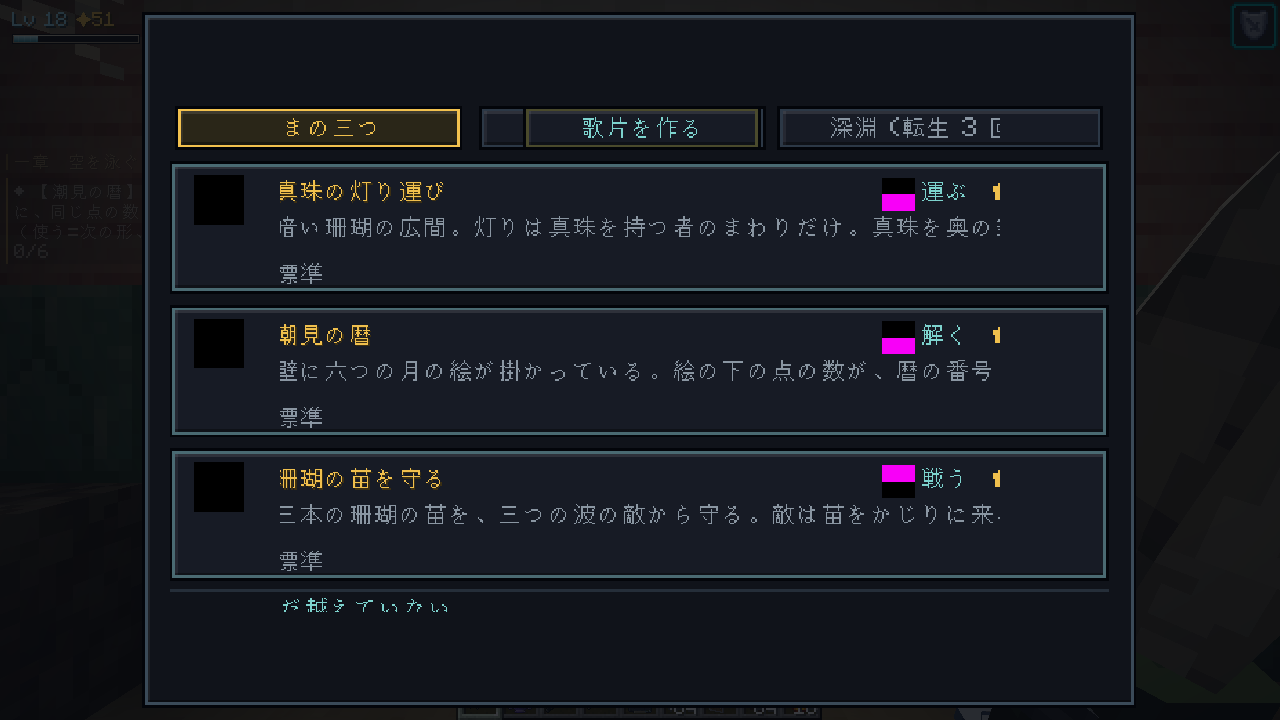
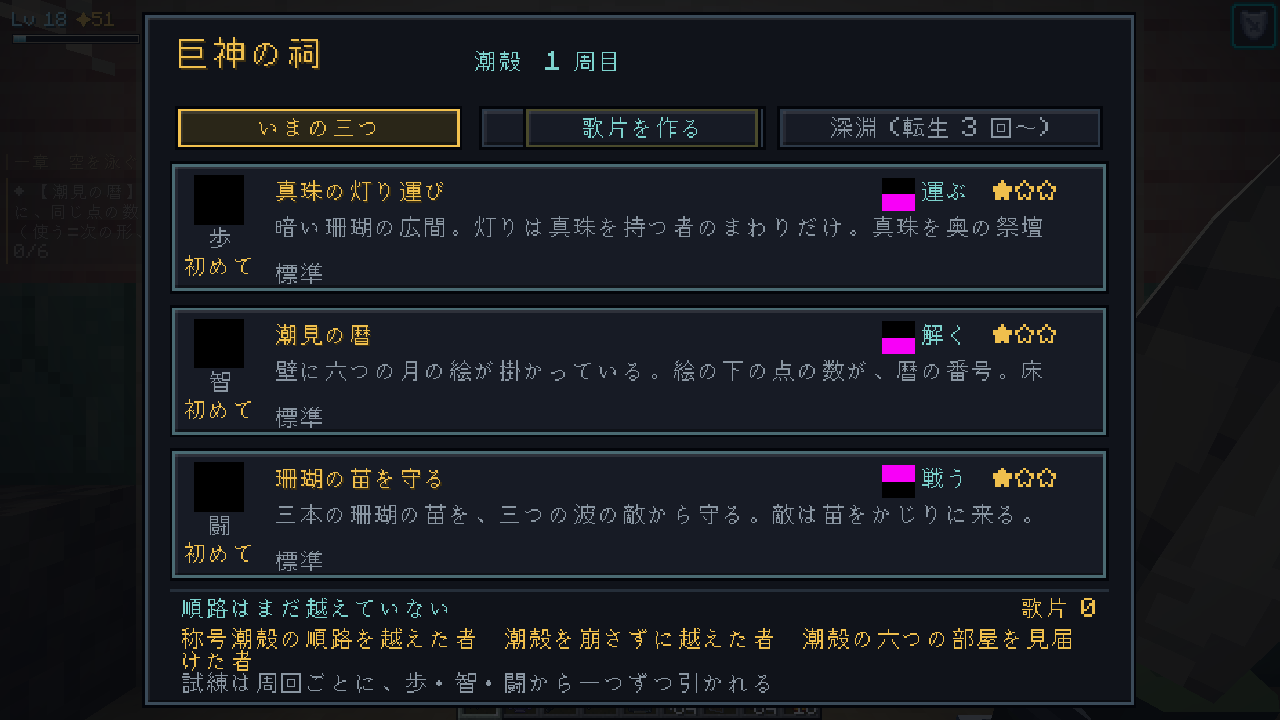
Trial board: lay out at GUI 2, 3 and 4 (text clip follows the fit, panel can shrink)
- textBounds() returned unscaled GUI coordinates, so at GUI 2 the text was clipped to the unscaled panel rect (about 140 px to the right). It now returns fit.screenRect(0, 0, W, H).
- UiFit.fit gains a floor; the trial board uses 0.5 so the 252 px panel fits the short GUI 3 and GUI 4 windows.
- Shots: docs/review/previews/raid_rewards_board_gui2/3/4.png.

diff --git a/src/main/java/jp/revati/skyabyss/client/trial/TrialBoardScreen.java b/src/main/java/jp/revati/skyabyss/client/trial/TrialBoardScreen.java
@@ -193,7 +193,7 @@ public class TrialBoardScreen extends Screen implements jp.revati.skyabyss.clien
         Font font = Minecraft.getInstance().font;
         g.fill(0, 0, width, height, argb(0.80f, BG));
         // 板は窓に合わせて一様に大きく描く (描くのと当たりは同じ変換)。論理の (0, 0) に置く
-        fit.fit(width, height, W, H, 2.5f);
+        fit.fit(width, height, W, H, 2.5f, 0.5f);
         int mouseX = (int) Math.floor(fit.x(screenX));
         int mouseY = (int) Math.floor(fit.y(screenY));
         fit.begin(g);
@@ -382,6 +382,8 @@ public class TrialBoardScreen extends Screen implements jp.revati.skyabyss.clien
 
     @Override
     public int[] textBounds() {
-        return new int[] {(width - W) / 2, (height - H) / 2, W, H};
+        // 文字の範囲は描くときと同じ変換を通した画面の矩形 (論理の座標のままだと、倍率が 1 でない GUI で字が切れる)
+        fit.fit(width, height, W, H, 2.5f, 0.5f);
+        return fit.screenRect(0, 0, W, H);
     }
 }

diff --git a/src/main/java/jp/revati/skyabyss/client/ui/UiFit.java b/src/main/java/jp/revati/skyabyss/client/ui/UiFit.java
@@ -13,8 +13,13 @@ public final class UiFit {
 
     // 論理の大きさを、画面の中央へ。縁に 6 画素ずつ余白を残す
     public void fit(int screenW, int screenH, int logicalW, int logicalH, float cap) {
+        fit(screenW, screenH, logicalW, logicalH, cap, 1f);
+    }
+
+    // floor は一番小さい倍率 (1 より小さくして、窓の低い GUI の大きさにも入れる。文字は小さくなる)
+    public void fit(int screenW, int screenH, int logicalW, int logicalH, float cap, float floor) {
         float s = Math.min((screenW - 12f) / Math.max(1, logicalW), (screenH - 12f) / Math.max(1, logicalH));
-        scale = Mth.clamp(s, 1f, cap);
+        scale = Mth.clamp(s, floor, cap);
         ox = Math.round((screenW - logicalW * scale) / 2f);
         oy = Math.round((screenH - logicalH * scale) / 2f);
     }

diff --git a/docs/review/raid_rewards_2026-10-24.md b/docs/review/raid_rewards_2026-10-24.md
@@ -63,20 +63,24 @@ docs/design/32 の 9.4 の数を、部屋と中ボスの間を越えたときに
 
 - `raid_rewards_notice_walk.png`: 歩の部屋を越えた直後。「部屋を越えた」「獲得 受け取ったもの: 【潮殻の殻片】 【共鳴の欠片（潮殻）】」「進捗 満ち引きの試練」。文は切れていない。
 - `raid_rewards_notice_late.png`: 少し後。知らせは消えて、次の部屋の壁画と「潮見の暦」の手がかりだけが見える。
-- `raid_rewards_board_gui3.png`: 試練の板 (GUI 3)。三つのカードが足に重ならず、印も枠の中。称号は「称号 潮殻の順路を越えた者 / 潮殻を崩さずに越えた者 / 潮殻の六つの部屋を見届けた者」の二行。足の最後の行 (周回の説明) は画面の下端でやや切れる。
-- `raid_rewards_board_gui2.png`: 試練の板 (GUI 2)。**まだ崩れている**。文字が左へ約 140 px ずれて、左の端と右の端で切れる。「巨神の祠」の題と「潮殻 1 周目」が出ていない。同じ崩れが修正前の撮りでも出ていたので、板の描き方 (文字の位置の基準) の問題で、今回の変更では直っていない。
+- `raid_rewards_board_gui2.png` / `_gui3.png` / `_gui4.png`: 試練の板を GUI 2・3・4 で撮ったもの。どれも板の全体 (題・頁・三つのカード・足の記録と称号と説明) が枠の中に出る。称号は二行に折り返す。GUI 4 は板が小さく (倍率 約 0.67) 文字も小さい。
+
+## 板の崩れの原因と直し
+
+- GUI 2 の左右の切れは、`textBounds()` (字を切る範囲) が論理の座標のままだったため。板は `UiFit` で窓に合わせて大きく描くので、切る範囲も同じ変換を通す必要があった (`fit.screenRect(0, 0, W, H)`)。他の画面 (RebirthScreen など) は既にこの形。
+- GUI 3・4 で足の行が切れたのは、板の高さ (252) が窓の高さより大きく、`UiFit` が 1 倍より小さくできなかったため。`UiFit.fit` に下限 (`floor`) を足し、板だけ 0.5 まで縮める。
 
 ## 未解決
 
-1. 試練の板が GUI 2 で崩れる。文字の x 位置が約 140 gui px ずれる (板の枠は正しい位置)。`TrialBoardScreen.render` 周りの文字の基準か、`textBounds` の扱いを見る必要がある。
-2. 試練の板の足の最後の行 (周回の説明) が GUI 3 で画面の下端ぎりぎりになる。板の高さを減らすか、説明を一行短くする。
-3. 撮影の途中で一度、`raid_rewards` の世界が前の撮影のプロセスに掴まれていた (ログの ファイル使用中 の警告)。以後の撮りは別の名前 (raid_rewards2 … 7) で行った。前のプロセスは止められていない (他の人のものと区別がつかないため)。枠 `.mc_lock2` (pid 1543) の掃除は、ユーザーの判断に任せた。
+1. GUI 4 では板が小さい (文字は約 6 px 相当)。読めるかは実機の判断。
+2. 撮影の途中で一度、`raid_rewards` の世界が前の撮影のプロセスに掴まれていた (ログの ファイル使用中 の警告)。以後の撮りは別の名前 (raid_rewards2 … 7) で行った。前のプロセスは止められていない (他の人のものと区別がつかないため)。枠 `.mc_lock2` (pid 1543) の掃除は、ユーザーの判断に任せた。
 
 ## 変更したファイル
 
 - `src/main/java/jp/revati/skyabyss/trial/TrialCommands.java` (title の枝の括弧)
 - `src/main/java/jp/revati/skyabyss/client/notice/CardFeed.java` (本文は四行まで)
-- `src/main/java/jp/revati/skyabyss/client/trial/TrialBoardScreen.java` (カード・足・称号の行)
+- `src/main/java/jp/revati/skyabyss/client/trial/TrialBoardScreen.java` (カード・足・称号の行、文字の範囲、倍率の下限 0.5)
+- `src/main/java/jp/revati/skyabyss/client/ui/UiFit.java` (`fit` に倍率の下限を足す。既存の呼び方は変わらない)
 - `tools/shots/raid_rewards.txt` (撮影の台本)
 - `docs/review/raid_rewards_2026-10-24.md` (この文書)
 - `docs/review/previews/raid_rewards_*.png` (gitignore の対象。`git add -f`)
